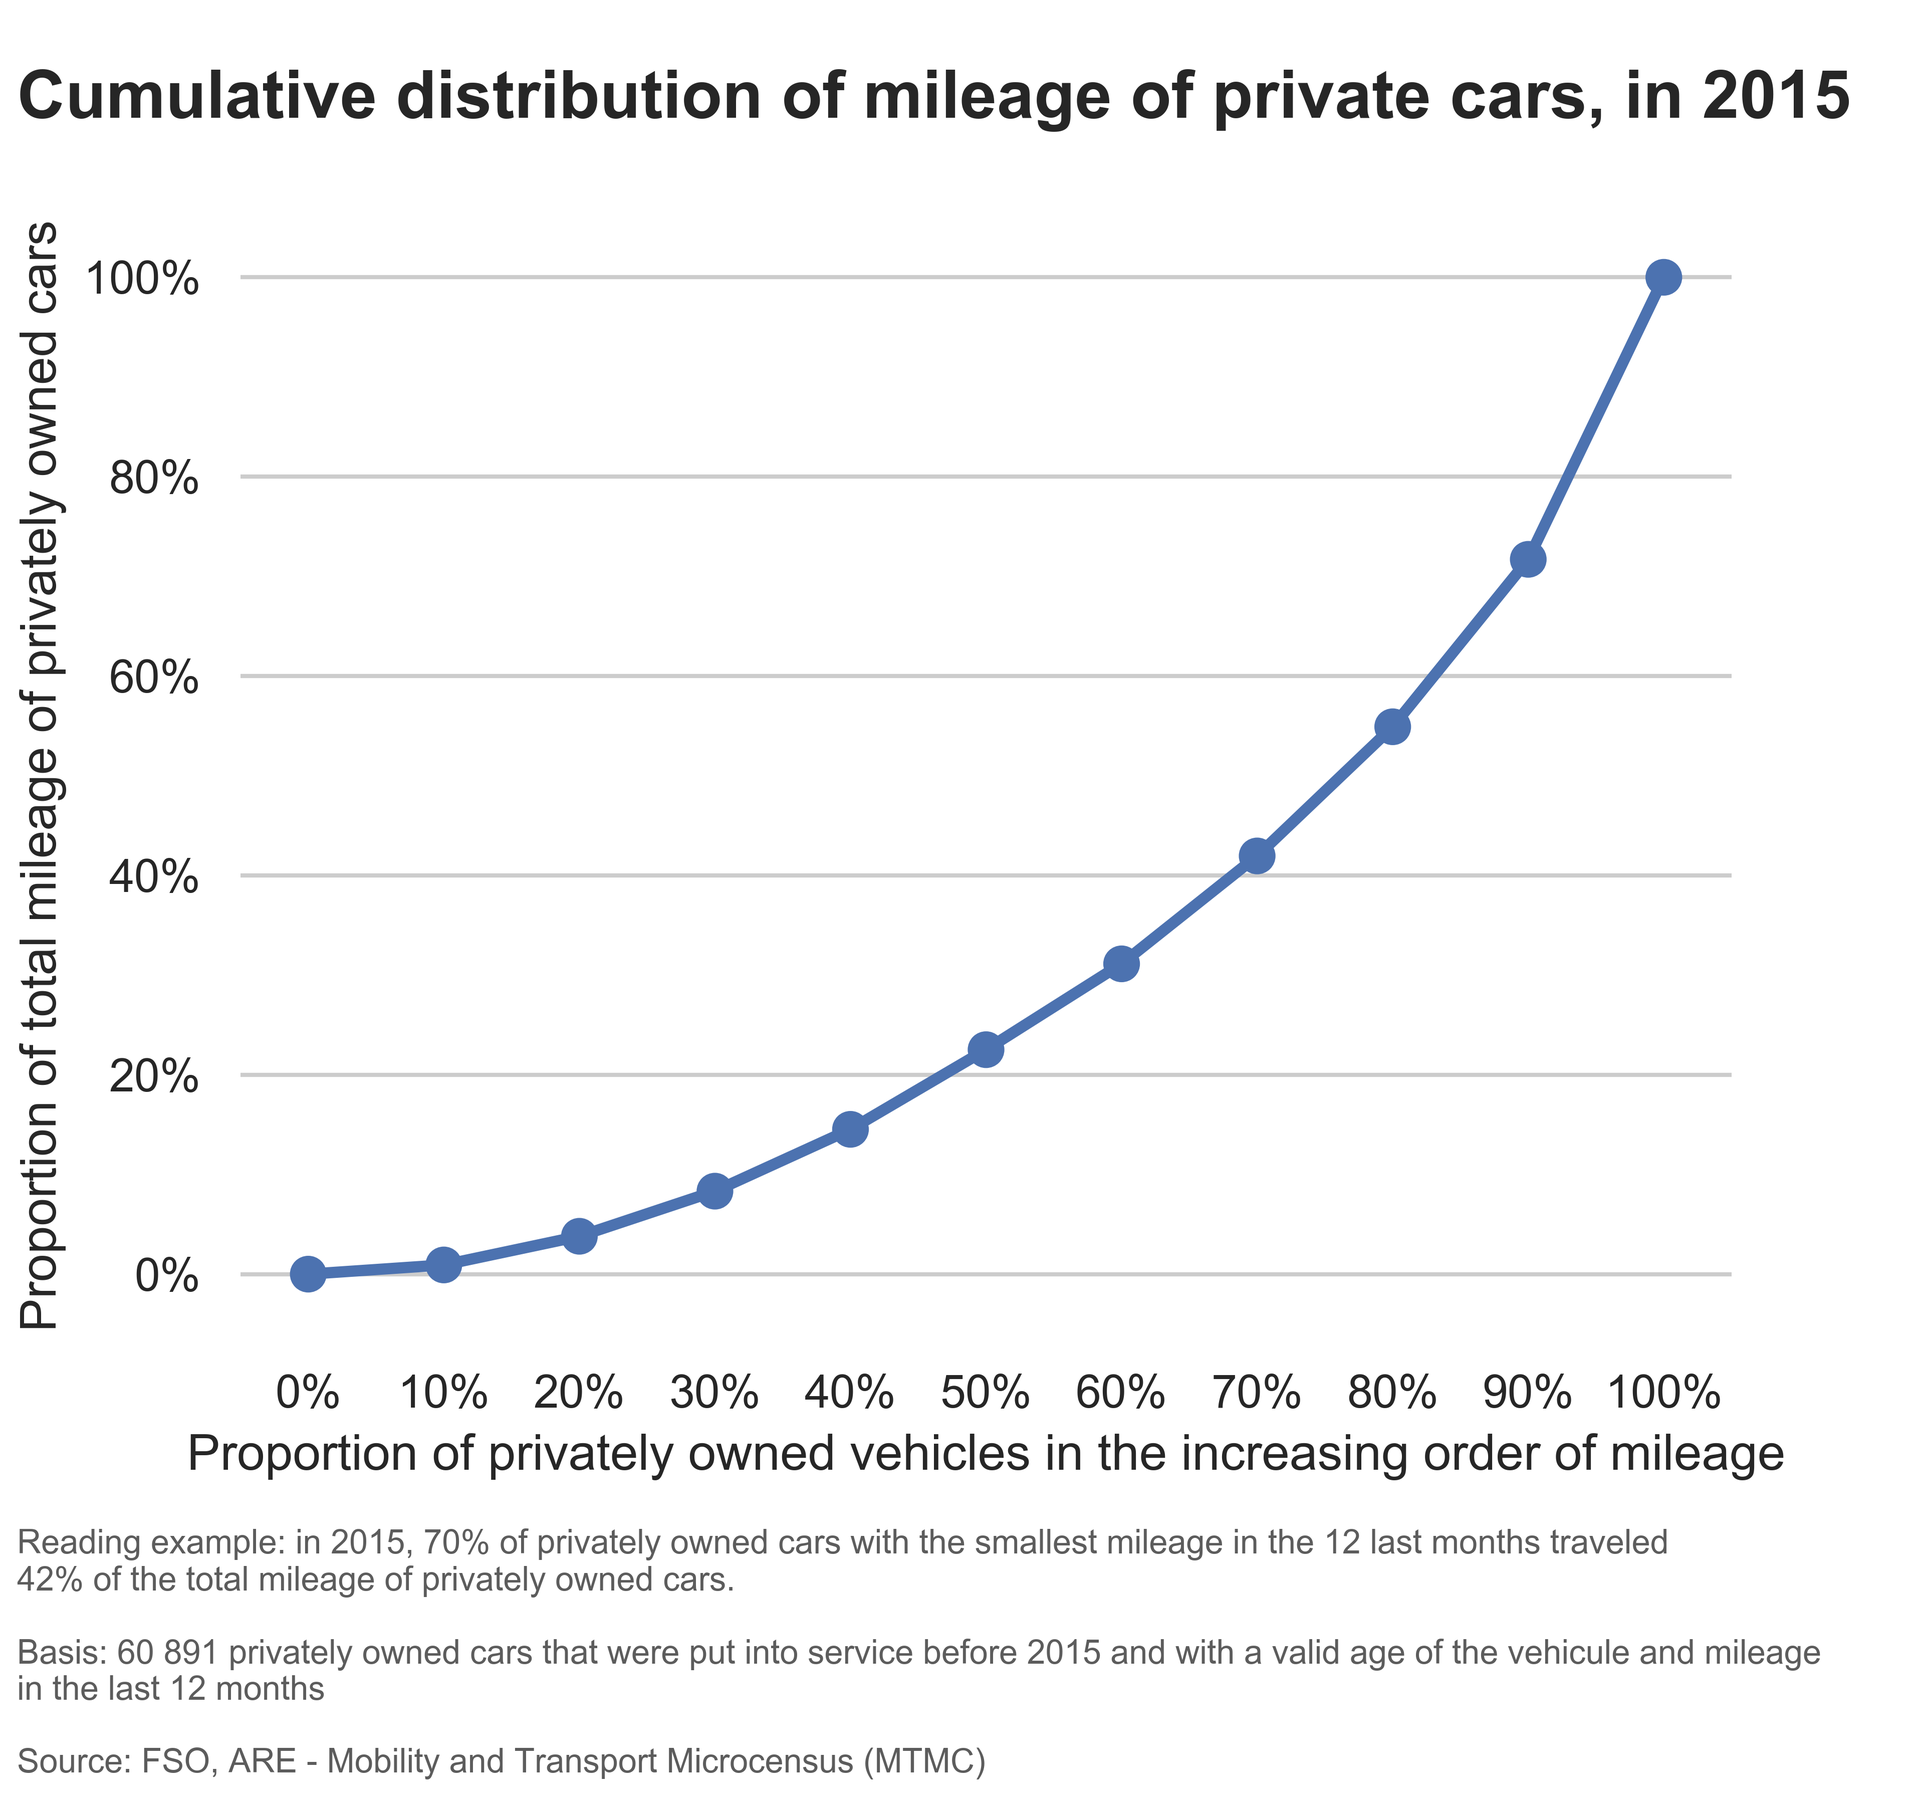
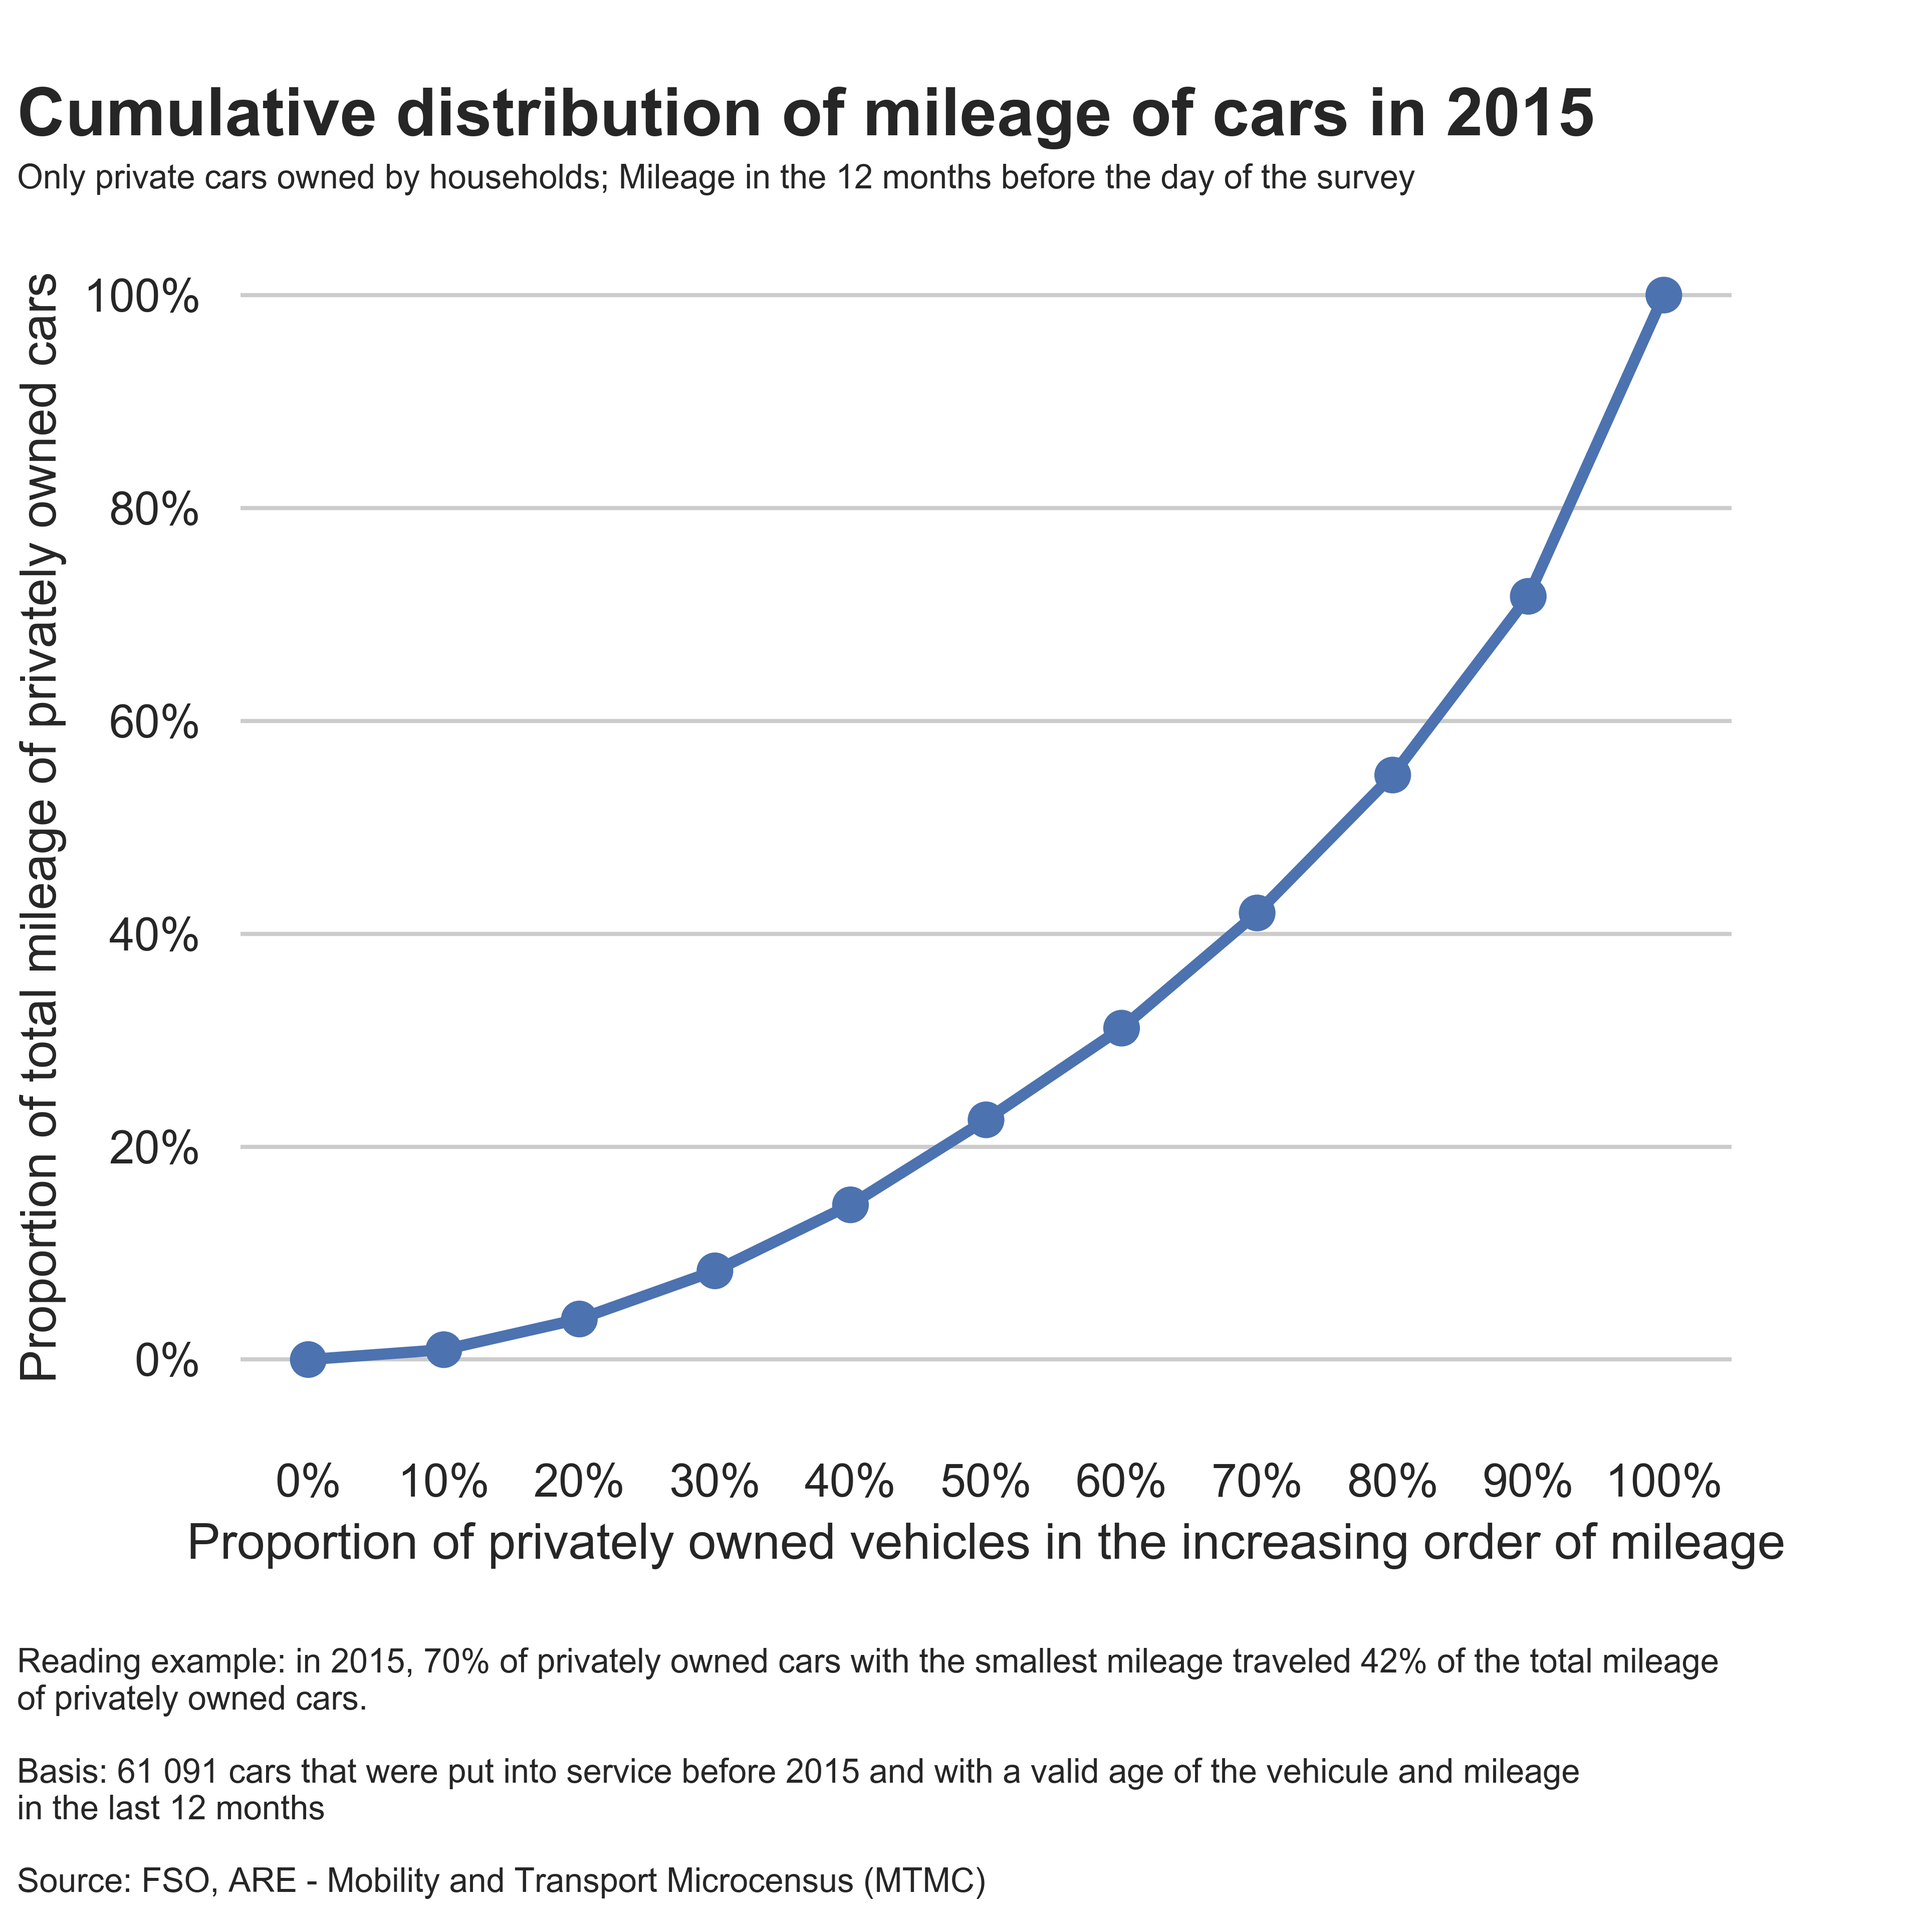
New figures (different texts), new statistical basis (different filters) to be compatible with MTMC official results

diff --git a/src/run_car_mileage_in_Switzerland_in_2015.py b/src/run_car_mileage_in_Switzerland_in_2015.py
@@ -21,52 +21,62 @@ def run_car_mileage_in_switzerland_in_2015():
 
 
 def plot_figures(df_km_per_interval, nb_observations):
-    dict_title = {'fr': 'Répartition du kilométrage des voitures privées, en 2015',
-                  'de': 'Verteilung der Fahrleistung der Privatwagen, 2015',
-                  'en': 'Cumulative distribution of mileage of private cars, in 2015'}
-    dict_x_label = {'fr': "Proportion des véhicules privés dans l'ordre croissant de leur kilométrage",
+    dict_title = {'fr': 'Répartition des prestations kilométriques des voitures,\nen 2015',
+                  'de': 'Verteilung der Fahrleistung der Personenwagen, 2015',
+                  'en': 'Cumulative distribution of mileage of cars in 2015'}
+    dict_subtitle = {'fr': 'Uniquement les voitures que possèdent les ménages; Prestations durant les 12 mois '
+                           "précédant le jour de l'enquête",
+                     'de': 'Nur Personenwagen, die sich im Besitz von Haushalten befinden; Fahreleistung in den 12 '
+                           'Monaten vor dem Befragungstag',
+                     'en': 'Only private cars owned by households; Mileage in the 12 months before the day of the '
+                           'survey'}
+    dict_x_label = {'fr': "Proportion des voitures dans l'ordre croissant de leur prestation kilométrique",
                     'de': 'Anteil der Privatwagen in aufsteigender Reihenfolge ihrer Fahrleistung',
                     'en': 'Proportion of privately owned vehicles in the increasing order of mileage'}
-    dict_y_label = {'fr': 'Proportion du kilométrage total des voitures privées',
+    dict_y_label = {'fr': 'Proportion des prestations kilométriques totales',
                     'de': 'Anteil der gesamten Fahrleistung von Privatwagen',
                     'en': 'Proportion of total mileage of privately owned cars'}
     cumulative_nb_km_prop_for_70_pc = int(round(100 * df_km_per_interval.iloc[7]['cumulative_weighted_nb_km_prop']))
-    dict_example = {'fr': 'Exemple de lecture: en 2015, 70% des voitures privées qui avaient parcouru le kilométrage '
-                          'le plus faible lors des 12 mois\n'
-                          'précédents ont réalisé ' + str(cumulative_nb_km_prop_for_70_pc) +
-                          '% du kilométrage total des voitures privées.\n\n'
+    dict_example = {'fr': 'Exemple de lecture: en 2015, 70% des voitures (avec les prestations kilométriques les plus '
+                          "faibles) ont réalisé " + str(cumulative_nb_km_prop_for_70_pc) +
+                          '% des\nprestations kilométriques totales.\n\n'
                           'Base: ' + str("{0:,g}".format(nb_observations)).replace(",", " ") +
-                          ' voitures privées qui ont été mises en circulation avant 2015 et avec indication valable de '
-                          "l'âge du véhicule et\ndes prestations kilométriques annuelles\n\n"
+                          ' voitures qui ont été mises en circulation avant 2015 et avec '
+                          "indication valable de l'âge du véhicule et des\nprestations kilométriques annuelles\n\n"
                           'Source: OFS, ARE - Microrecensement mobilité et transports (MRMT)',
-                    'de': 'Lesebeispiel: 2015 haben 70% der Privatwagen, die die kleinste Fahrleistung in den letzten '
-                          '12 Monaten zurückgelegt hatten,\n' + str(cumulative_nb_km_prop_for_70_pc) +
-                          '% der gesamten Fahrleistung von Privatwagen geleistet.\n\n'
+                    'de': 'Lesebeispiel: 2015 haben 70% der Personenwagen (in ansteigender Reihenfolge ihrer '
+                          'Fahrleistung), ' + str(cumulative_nb_km_prop_for_70_pc) +
+                          '% der gesamten\nFahrleistung von Personenwagen realisiert.\n\n'
                           'Basis: ' + str("{0:,g}".format(nb_observations)).replace(",", " ") +
                           ' Privatwagen, die vor 2015 in Verkehr gesetzt wurden und gültige Angaben zum Fahrzeugalter '
                           'und zur\nJahresfahrleistung aufweisen\n\n'
                           'Quelle: BFS, ARE - Mikrozensus Mobilität und Verkehr (MZMV)',
-                    'en': 'Reading example: in 2015, 70% of privately owned cars with the smallest mileage in the 12 '
-                          'last months traveled\n' + str(cumulative_nb_km_prop_for_70_pc) +
-                          '% of the total mileage of privately owned cars.\n\n'
+                    'en': 'Reading example: in 2015, 70% of privately owned cars with the smallest mileage '
+                          'traveled ' + str(cumulative_nb_km_prop_for_70_pc) +
+                          '% of the total mileage\nof privately owned cars.\n\n'
                           'Basis: ' + str("{0:,g}".format(nb_observations)).replace(",", " ") +
-                          ' privately owned cars that were put into service before 2015 and with a valid age of the '
+                          ' cars that were put into service before 2015 and with a valid age of the '
                           'vehicule and mileage\nin the last 12 months\n\n'
                           'Source: FSO, ARE - Mobility and Transport Microcensus (MTMC)'}
-    sns.set(rc={'figure.figsize': (6.4, 6.0)})
+    sns.set(rc={'figure.figsize': (6.4, 6.4)})
     sns.set_style("whitegrid", {'axes.spines.bottom': False,
                                 'axes.spines.left': False,
                                 'axes.spines.right': False,
                                 'axes.spines.top': False})
-    plt.subplots_adjust(bottom=0.26)
+    plt.subplots_adjust(bottom=0.26)  # Add some place below the figure
     for language in ['fr', 'de', 'en']:
         plt.clf()
         sns_plot = sns.pointplot(x='cumulative_household_weight_prop', y='cumulative_weighted_nb_km_prop',
                                  data=df_km_per_interval)
         sns_plot.set(yticklabels=['', '0%', '20%', '40%', '60%', '80%', '100%'])
         sns_plot.set(xticklabels=['0%', '10%', '20%', '30%', '40%', '50%', '60%', '70%', '80%', '90%', '100%'])
-        plt.text(x=-2.15, y=1.16, s=dict_title[language], fontsize=16, weight='bold')
-        plt.text(x=-2.15, y=-0.5, s=dict_example[language], fontsize=8, alpha=0.75)
+        if language == 'fr':  # Title on two lines
+            plt.text(x=-2.15, y=1.125, s=dict_title[language], fontsize=16, weight='bold')
+            plt.text(x=-2.15, y=1.075, s=dict_subtitle[language], fontsize=8)
+        else:  # Title on one line
+            plt.text(x=-2.15, y=1.15, s=dict_title[language], fontsize=16, weight='bold')
+            plt.text(x=-2.15, y=1.1, s=dict_subtitle[language], fontsize=8)
+        plt.text(x=-2.15, y=-0.5, s=dict_example[language], fontsize=8)
         sns_plot.set_xlabel(dict_x_label[language])
         sns_plot.set_ylabel(dict_y_label[language])
         sns_figure = sns_plot.get_figure()
@@ -94,43 +104,29 @@ def sum_observations_by_intervals(df_vehicles, nb_intervals):
 
 
 def get_nb_km_in_last_12_months_with_weights():
-    selected_columns = ['WM', 'fahrzeugart', 'f30800_31600', 'f30900_31700', 'f30600_31500', 'f30601_31501']
+    selected_columns = ['WM', 'fahrzeugart', 'f30900_31700', 'f30600_31500']
     df_vehicles = get_vehicles(selected_columns=selected_columns)
     # Rename variables
     df_vehicles = df_vehicles.rename(columns={'WM': 'household_weight',
                                               'fahrzeugart': 'type_of_vehicle',  # 1 corresponds to car,
-                                              # 2 to motorbikes
-                                              'f30800_31600': 'total_mileage',  # -97: doesn't know,
-                                              # -98: no answer
+                                                                                 # 2 to motorbikes
                                               'f30900_31700': 'nb_km_in_last_12_months',  # -97: doesn't know,
-                                              # -98: no answer,
-                                              # -99: no mileage (0 km) or
-                                              # no answer to question about total mileage
-                                              'f30600_31500': 'matriculation_year',  # -98: no answer
-                                                                                     # -97: doesn't know
-                                              'f30601_31501': 'matriculation_month'  # -99: before 2014 and not in MOFIS
-                                                                                     # -98: no answer
-                                                                                     # -97: doesn't know
+                                                                                          # -98: no answer,
+                                                                                          # -99: no mileage (0 km) or
+                                                                                          #      no answer to question
+                                                                                          #      about total mileage
+                                              'f30600_31500': 'matriculation_year'  # -98: no answer
+                                                                                    # -97: doesn't know
                                               })
     # Select cars only (no motorbikes)
     df_vehicles = df_vehicles[df_vehicles['type_of_vehicle'] == 1]
     del df_vehicles['type_of_vehicle']
-    # Select only cars with matriculation year before 2015
+    # Select only cars with matriculation year known and before 2015
     df_vehicles = df_vehicles[df_vehicles['matriculation_year'] < 2015]
-    df_vehicles = df_vehicles[df_vehicles['matriculation_year'] != -98]
-    df_vehicles = df_vehicles[df_vehicles['matriculation_year'] != -97]
+    df_vehicles = df_vehicles[df_vehicles['matriculation_year'] > 0]
     del df_vehicles['matriculation_year']
-    # Select only cars with matriculation month known
-    df_vehicles = df_vehicles[df_vehicles['matriculation_month'] != -98]
-    df_vehicles = df_vehicles[df_vehicles['matriculation_month'] != -97]
-    del df_vehicles['matriculation_month']
-    # Replace the -99 value by 0 in the nb of km in the last 12 months if the vehicle has no mileage at all
-    df_vehicles.loc[df_vehicles['total_mileage'] == 0, 'nb_km_in_last_12_months'] = 0
-    del df_vehicles['total_mileage']
     # Remove observations where the respondent doesn't know the mileage or doesn't answer
-    df_vehicles = df_vehicles[df_vehicles.nb_km_in_last_12_months != -97]
-    df_vehicles = df_vehicles[df_vehicles.nb_km_in_last_12_months != -98]
-    df_vehicles = df_vehicles[df_vehicles.nb_km_in_last_12_months != -99]
+    df_vehicles = df_vehicles[df_vehicles.nb_km_in_last_12_months >= 0]
     nb_observations = len(df_vehicles)
     print('Number of private cars with known mileage and known matriculation time:', nb_observations)
     ''' Sort the nb of km made in the last 12 months:
